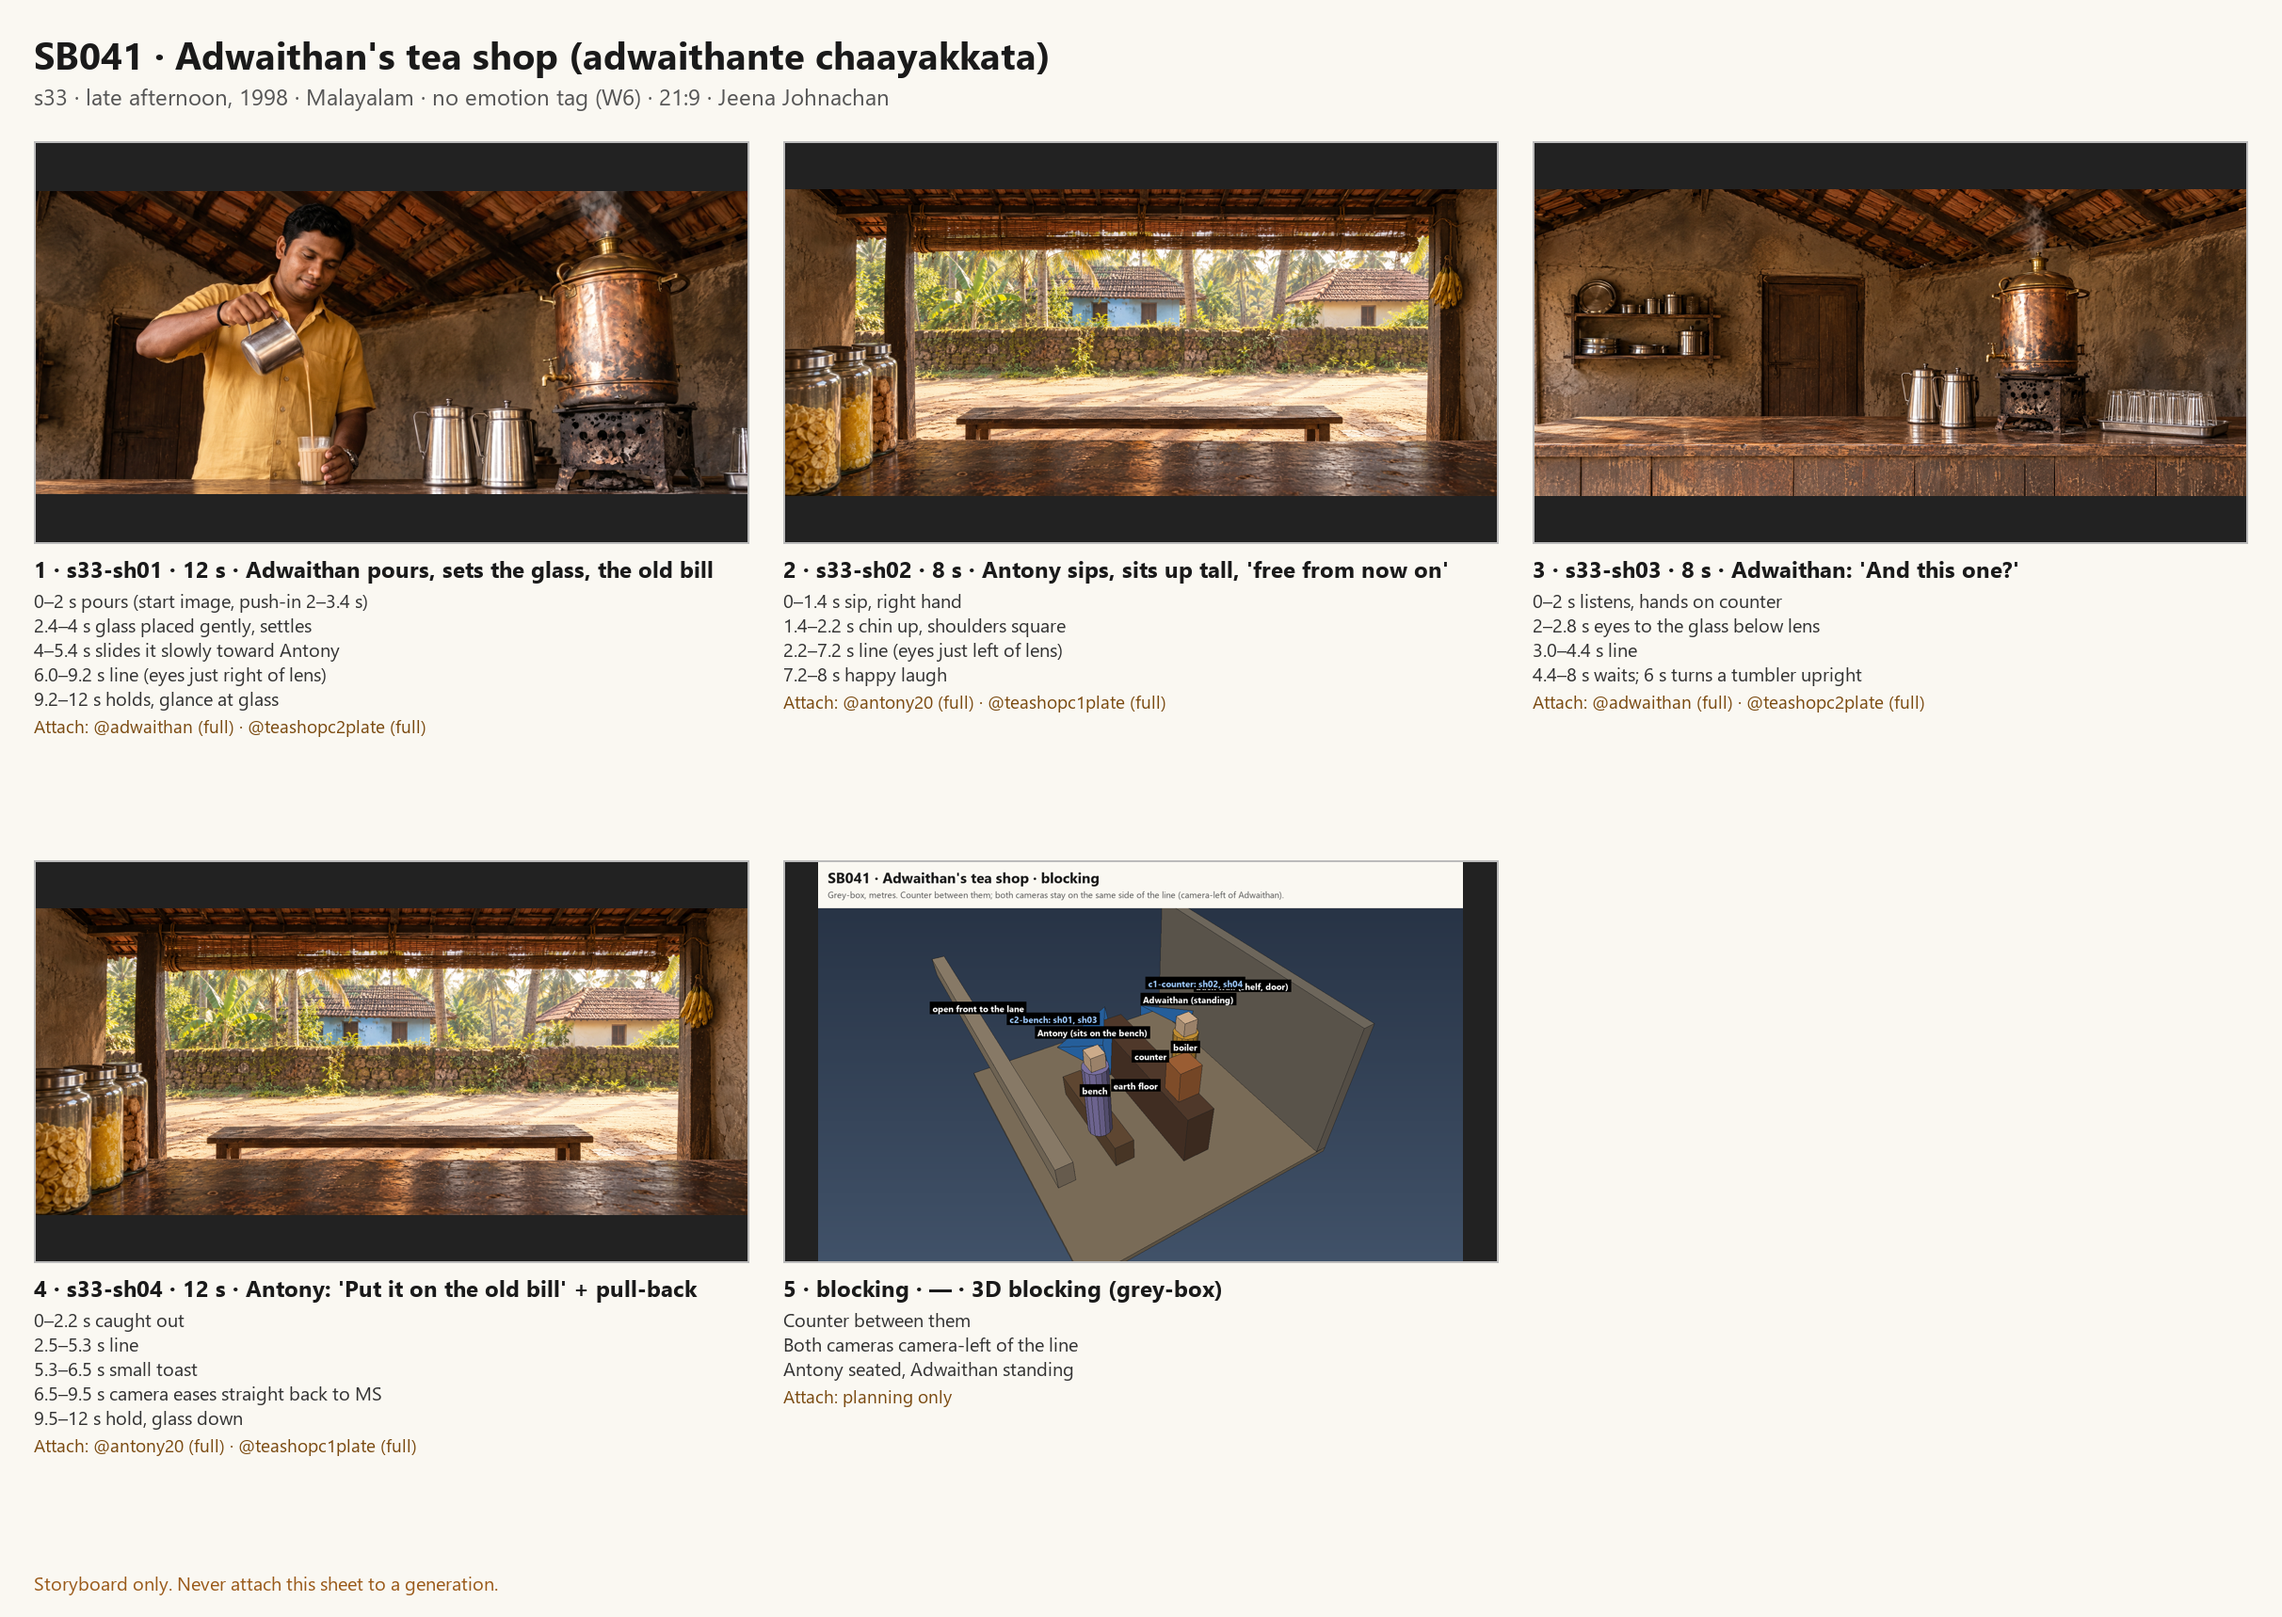
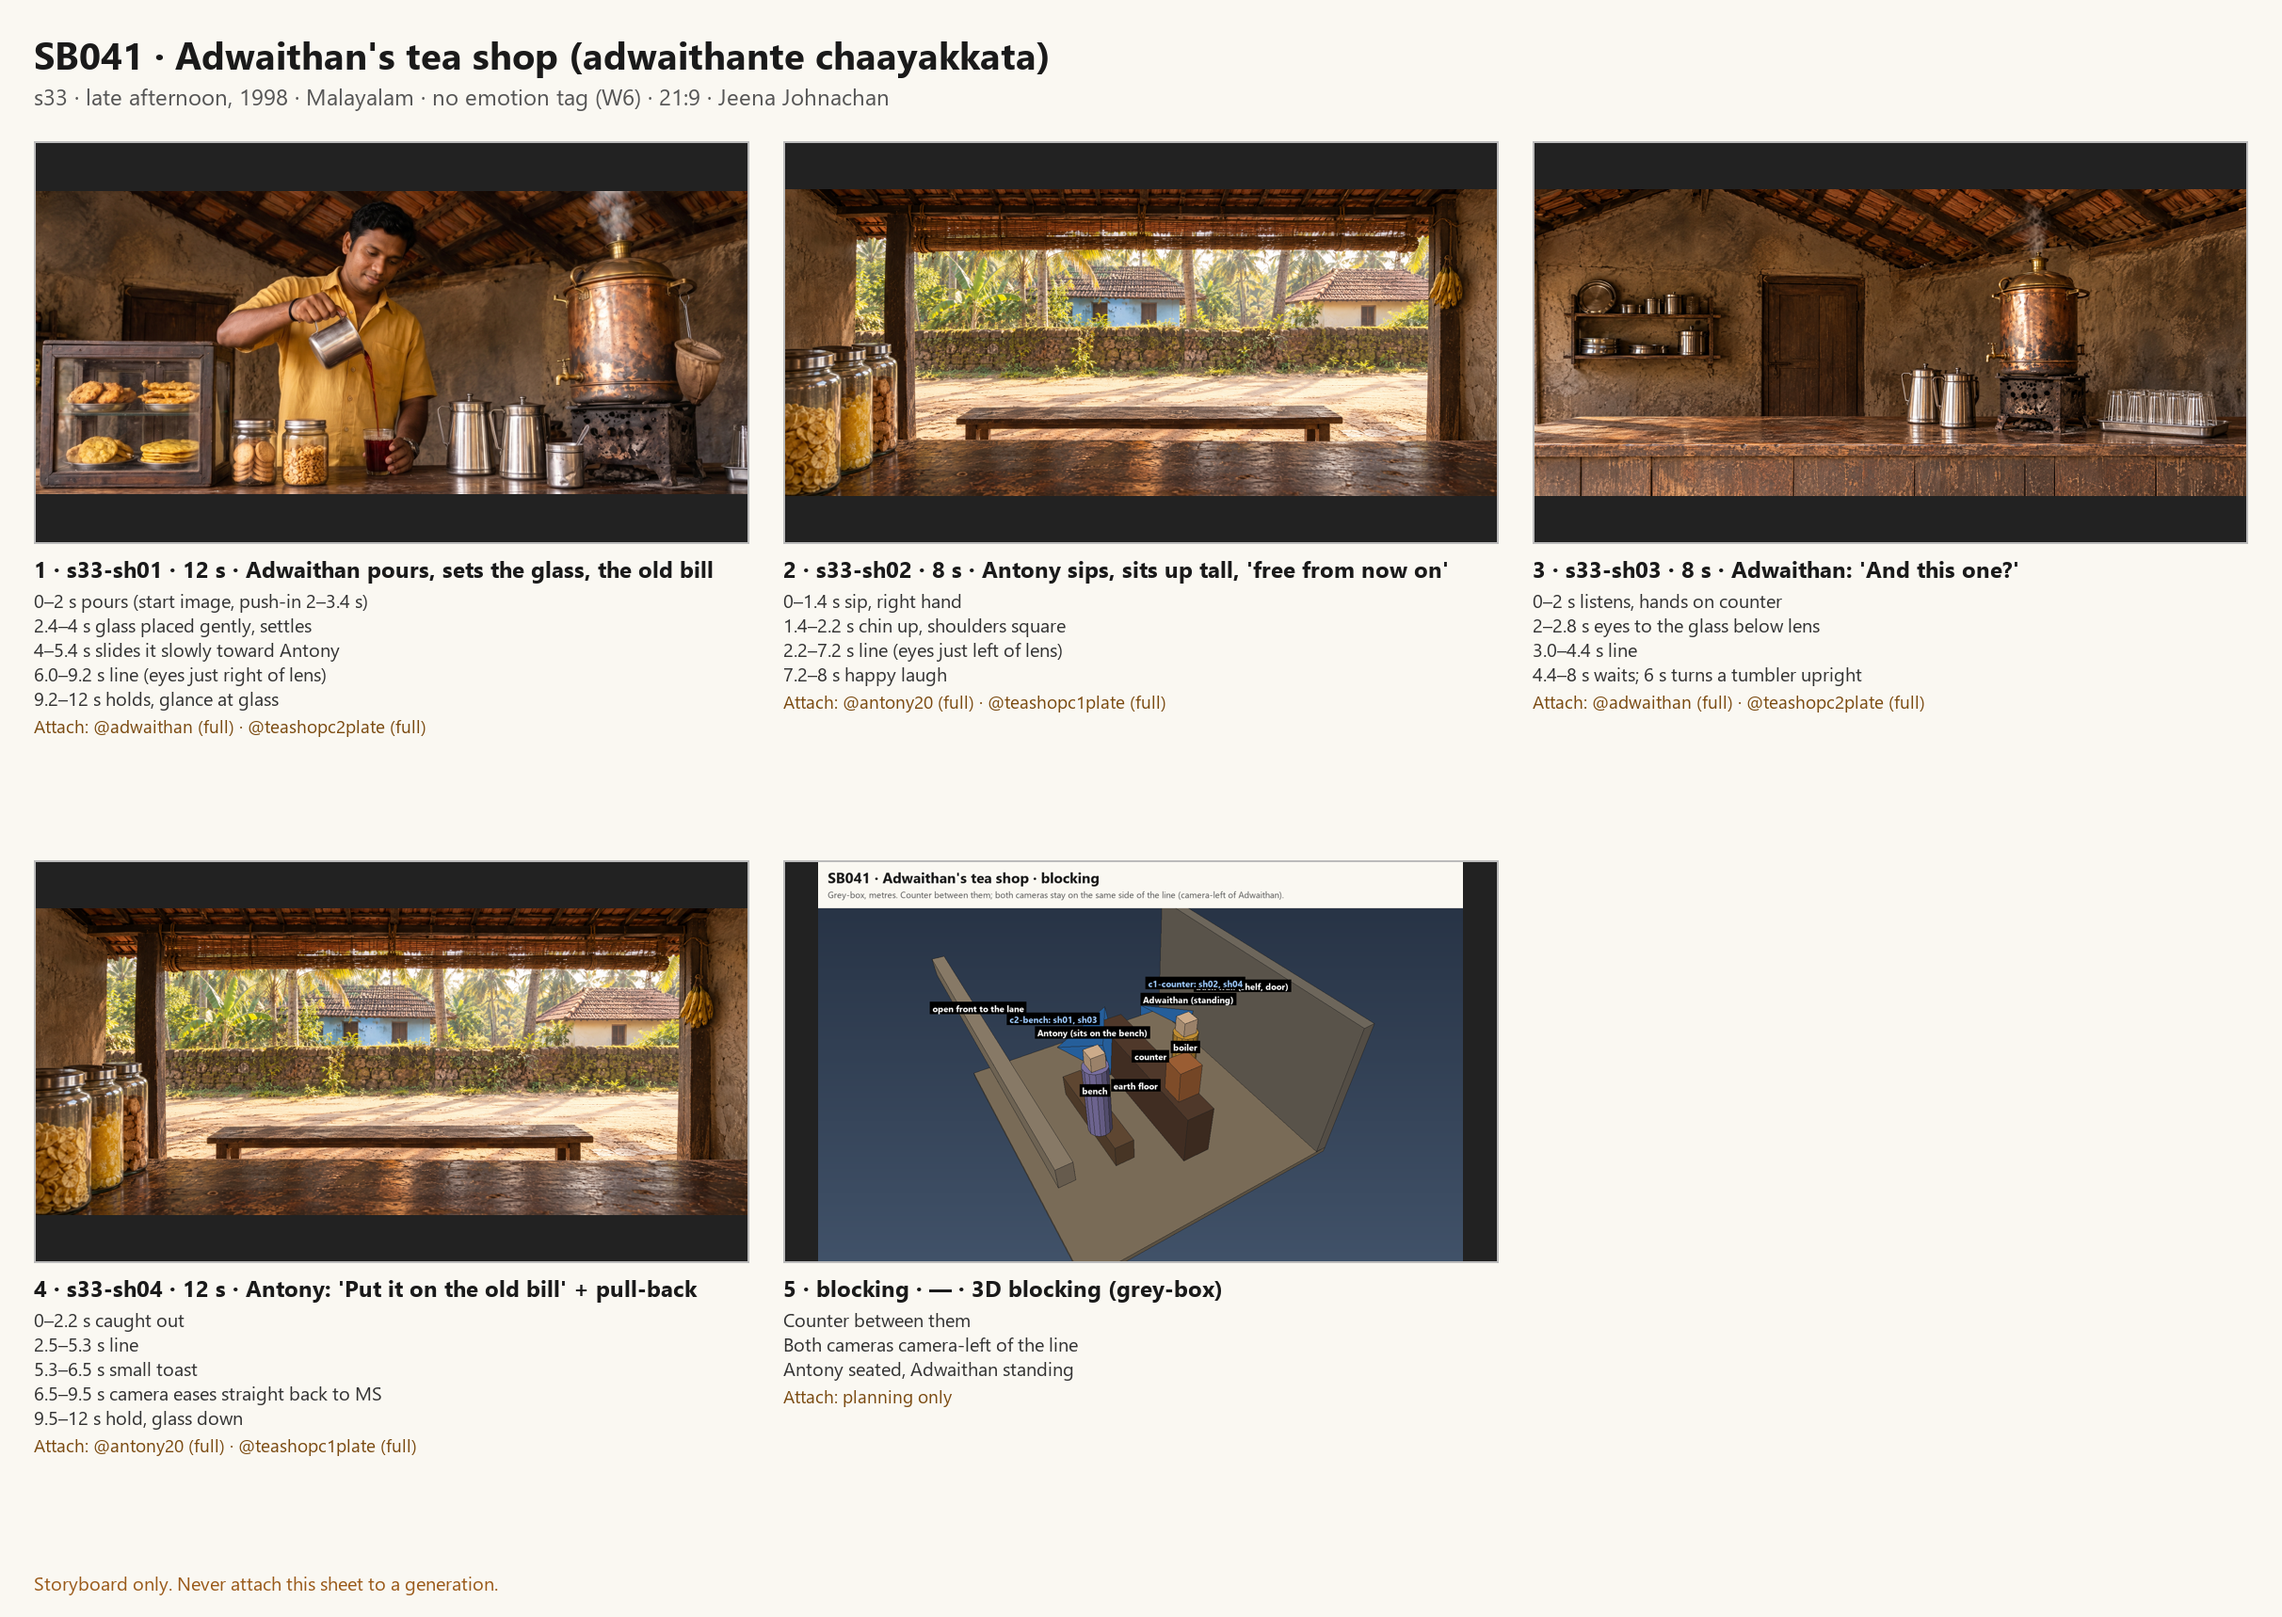
Jeena: shot: s33-sh01 v1.6 (matched to the v2 start frame)

Changed region(s): [[0.0, 0.0925, 0.3403, 0.3085]]

diff --git a/scenes/showreel/s33-sh01.md b/scenes/showreel/s33-sh01.md
@@ -1,5 +1,5 @@
 # s33-sh01 · SB041 (Ref 33) — Adwaithan pours the tea; the old bill · 12 s · v1
-Status: **v1.5 ready (Jeena Johnachan, 2026-11-23)** · dialogue (Adwaithan) · scene SB041, Adwaithan's tea shop, late afternoon, same day as SB039.
+Status: **v1.6 ready (Jeena Johnachan, 2026-11-23)** · dialogue (Adwaithan) · scene SB041, Adwaithan's tea shop, late afternoon, same day as SB039.
 Line: ADWAITHAN "പത്തു ദിവസം പോയാൽ പഴയ കണക്ക് മായില്ല, കേട്ടോ." (Ten days away doesn't erase your old bill, you know.)
 Camera: `teashop-c2-bench` · locked matched singles, one pull-back after the last line in sh04 — cinematographer plan **used** (Jeena, 2026-11-23). 85mm (the plates put the seated Antony about 2.3 m from the counter camera).
 Scene emotion: **no tag** (Jeena; W6, L101, L115): ordinary friendly speech. Platform dialogue language: Malayalam.
@@ -18,12 +18,12 @@ Adwaithan: **Abhilash S** (Fun, Encouraging Friend)
 ## Continuity check (L119)
 | Element | Previous | This shot |
 |---|---|---|
-| Start frame | — | @s33sh01start: low angle, waist-up, mid-pour; push-in to MCU by 3.4 s |
+| Start frame | — | @s33sh01start v2: low angle, waist-up a little left of centre, mid-pour of kattan chaya, snack cabinet and jars at the left; push-in to MCU by 3.4 s |
 | Adwaithan | first shot of him (sheet) | mustard shirt, saffron mundu, thread right wrist, watch left; jug right hand, glass left |
 | Glass of tea | — | poured, placed gently at the bottom centre, settles, slid slowly toward Antony (L179) |
 | Light | — | late afternoon, sun from the lane (behind the camera here) |
 
-## Prompt (v1.5, 6677 characters)
+## Prompt (v1.6, 6737 characters)
 ```text
 SCENE CONTEXT
 Late afternoon, 1998, a village tea shop, Alappad coast, Kerala. One continuous 12-second shot of Adwaithan behind his counter: he pours a glass of tea for Antony, sets it down, then says one line in Malayalam. Only Adwaithan speaks. Spoken language: Malayalam only.
@@ -34,12 +34,12 @@ Light: low late-afternoon sun, about 4300K, from the lane; the shop in soft warm
 NOW: as the start image: mid-pour, jug in his right hand, glass in his left, two more jugs on the counter.
 
 ACTIVE REFERENCES
-@s33sh01start (start image, frame one): the first frame exactly: low angle, Adwaithan waist-up at the LEFT third, boiler at the RIGHT. 100% matches the reference.
+@s33sh01start (start image, frame one): the first frame exactly: low angle, Adwaithan waist-up a little left of centre, the snack cabinet at the LEFT, boiler at the RIGHT. 100% matches the reference.
 @adwaithan (full, 0–12 s): Adwaithan, the only person in frame, exactly as on the sheet; plain forehead. Speaks only Malayalam. 100% matches the reference.
 @teashopc2plate (full, 0–12 s): the room behind him. 100% matches the reference.
 
-THE COUNTER (in view from frame one to the end)
-At its LEFT end, lower left of the frame: a kannadi koodu (wooden-framed glass snack cabinet, 45 cm) with fresh parippuvada, golden pazhampori and boli on three steel plates; beside it two clear jars with steel lids, biscuits in one, small snacks in the other. By the boiler: a cloth tea strainer on a hook, a steel sugar tin, the tumbler tray. The middle stays clear for the one glass of kattan chaya: black tea, no milk, deep reddish-brown.
+THE COUNTER (from frame one)
+At its LEFT end, lower left of the frame: a kannadi koodu (wooden-framed glass snack cabinet, 45 cm) with fresh parippuvada, golden pazhampori and boli on four steel plates on two shelves; beside it two clear jars with steel lids, biscuits in one, small snacks in the other. By the boiler: a cloth tea strainer on a hook, a steel sugar tin, the tumbler tray. The middle stays clear for the one glass of kattan chaya: black tea, no milk, amber reddish-brown.
 
 FORMAT MODE
 21:9. One continuous shot, 12 seconds, real time, no cut. Runs the full 12 seconds.
@@ -91,11 +91,12 @@ CONSTRAINTS
 Exactly three steel jugs, one snack cabinet, two jars; the counter uncluttered. No milk in the tea. No labels, lettering or religious picture.
 
 POSITIVE LOCKS
-One continuous 12-second shot from the start image, a straight push-in to a medium close-up by 3.4 s, then locked. Exactly one face; one glass of black tea; cabinet and jars stay put. He says "പത്തു ദിവസം പോയാൽ പഴയ കണക്ക് മായില്ല, കേട്ടോ." once, in Malayalam, 6.0–9.2 s, eyes just right of the lens. The glass handled slowly. Runs the full 12 seconds.
+One continuous 12-second shot from the start image, a straight push-in to a medium close-up by 3.4 s, then locked. Exactly one face; one glass of black tea; cabinet and jars stay where the start image has them. He says "പത്തു ദിവസം പോയാൽ പഴയ കണക്ക് മായില്ല, കേട്ടോ." once, in Malayalam, 6.0–9.2 s, eyes just right of the lens. The glass handled slowly. Runs the full 12 seconds.
 When @adwaithan says "പത്തു ദിവസം പോയാൽ പഴയ കണക്ക് മായില്ല, കേട്ടോ.", let it be casual, dry and knowingly teasing, smooth and natural, not over-acted, in Malayalam.
 ```
 
 ## History
+- v1.6 (Jeena, 2026-11-23): @s33sh01start replaced by its v2 edit (snack cabinet, jars, strainer, sugar tin, kattan chaya); prompt matched to it: Adwaithan a little left of centre, four plates on two shelves, amber reddish-brown tea, cabinet and jars where the start image has them. Re-upload @s33sh01start.
 - v1.5 (Jeena, 2026-11-23): well-stocked chayakkada: kannadi koodu (wooden-framed glass snack cabinet) with parippuvada, pazhampori and boli on steel plates at the counter's left end, in view the whole shot; two jars of biscuits and snacks; strainer, sugar tin, tumbler tray, shelf of steel plates; the tea is kattan chaya (black, no milk, deep reddish-brown). MEMORY's Place line updated. Camera, actions, timing, dialogue, voice, light unchanged. @s33sh01start still shows milky tea and no cabinet.
 - v1.4 (Jeena, 2026-11-23): set dressing only: a small glass display case of parippuvada and pazhampori at the counter's left end, two clear jars of biscuits and snacks, a cloth tea strainer and a sugar tin by the boiler; counts locked, counter kept uncluttered. Camera, framing, actions, dialogue, timing, light unchanged. The start image @s33sh01start does not show the new items yet.
 - v1.3 (Jeena, 2026-11-23): the glass is placed gently, settles, then slides slowly and smoothly (L179); clip 8 → 12 s so nothing else is squeezed; line now 6.0–9.2 s. Start image, camera (push-in 2.0–3.4 s), dialogue, delivery, light and background unchanged.
